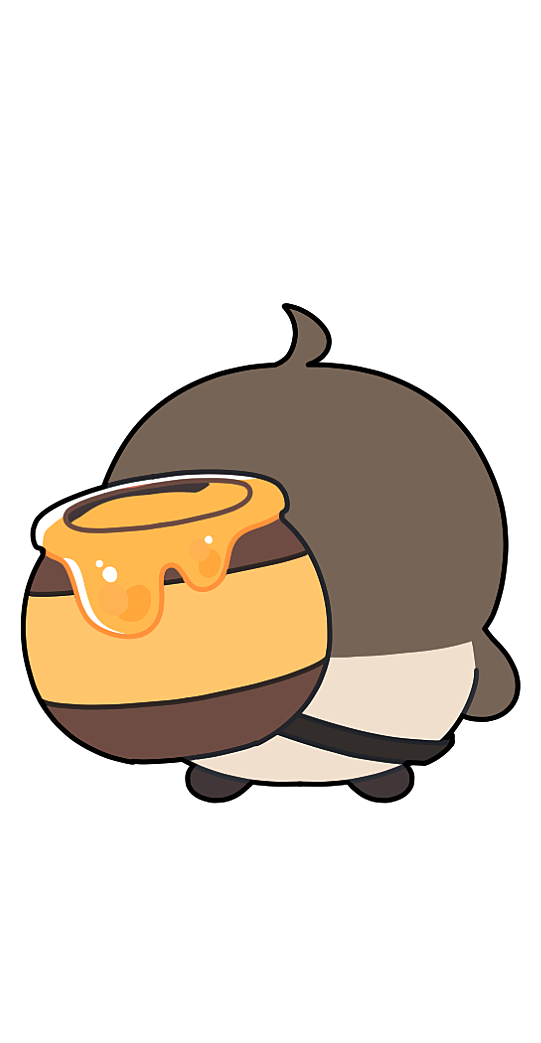
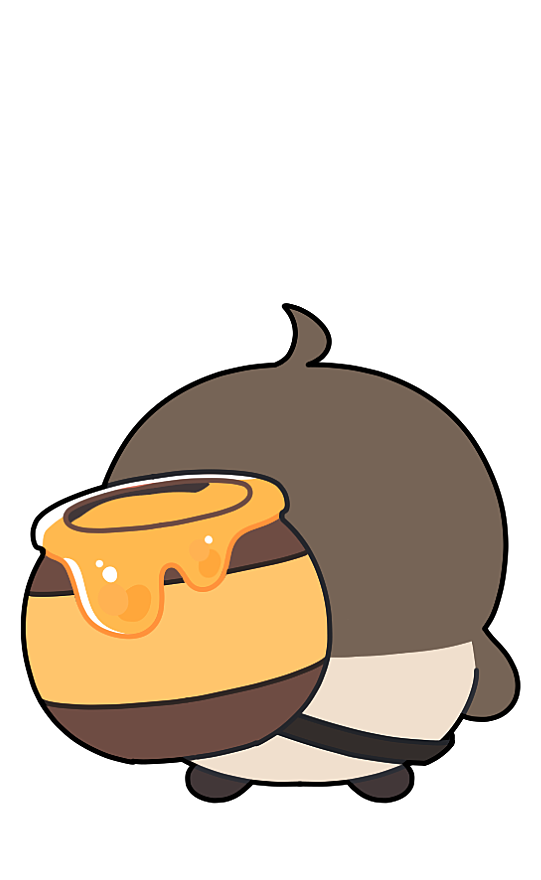
fix: 꿀붕이 이미지 하단 여백 제거로 구멍 내 위치 조정
이미지 하단 여백 44px(렌더 기준)이 캐릭터를 구멍 상단에 치우치게 했음.
하단 여백을 14px로 줄여 캐릭터 중심이 구멍 중앙에 위치하도록 수정.

diff --git a/src/app/whack/WhackGame.tsx b/src/app/whack/WhackGame.tsx
@@ -308,7 +308,7 @@ export default function WhackGame() {
                           src={src}
                           alt="꿀붕이"
                           width={100}
-                          height={139}
+                          height={163}
                           className={`${styles.kkul} ${styles[state]}`}
                           draggable={false}
                           priority={isUp}